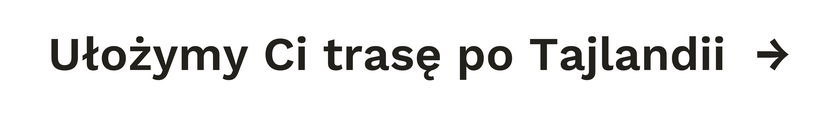
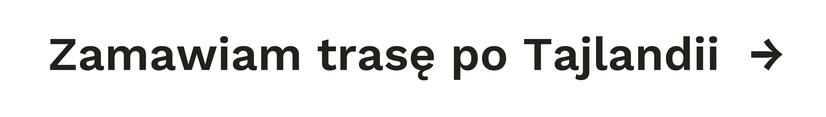
Change CTA copy to "Zamawiam trasę po <kraj>"
Rewords all nine CTA pills (white, yellow hover, mobile) from "Ułożymy Ci trasę
po X" to "Zamawiam trasę po X" — first person, ordering rather than offering.
The shorter label makes each pill slightly narrower, so the overlay geometry is
updated for both layouts.

diff --git a/Baner_Indonezja.html b/Baner_Indonezja.html
@@ -58,9 +58,9 @@
 
 /* ——— desktop ——— */
 .esk-bn__cta--d {
-  left: 61.2176%;
+  left: 61.3303%;
   top: 84.3292%;
-  width: 35.6257%;
+  width: 35.5130%;
 }
 .esk-bn__cta--m { display: none; }
 
@@ -78,9 +78,9 @@
   .esk-bn__cta--d { display: none; }
   .esk-bn__cta--m {
     display: block;
-    left: 10.8333%;
+    left: 11.2037%;
     top: 88.6647%;
-    width: 78.2407%;
+    width: 77.5926%;
     filter: drop-shadow(0 5px 12px rgba(0, 0, 0, 0.26));
     transition: transform 0.14s ease;
   }

diff --git a/Baner_Tajlandia.html b/Baner_Tajlandia.html
@@ -58,9 +58,9 @@
 
 /* ——— desktop ——— */
 .esk-bn__cta--d {
-  left: 61.6122%;
+  left: 61.7249%;
   top: 84.3292%;
-  width: 35.2311%;
+  width: 35.1184%;
 }
 .esk-bn__cta--m { display: none; }
 
@@ -78,9 +78,9 @@
   .esk-bn__cta--d { display: none; }
   .esk-bn__cta--m {
     display: block;
-    left: 11.3889%;
+    left: 11.7593%;
     top: 88.6647%;
-    width: 77.1296%;
+    width: 76.4815%;
     filter: drop-shadow(0 5px 12px rgba(0, 0, 0, 0.26));
     transition: transform 0.14s ease;
   }

diff --git a/Baner_Wietnam.html b/Baner_Wietnam.html
@@ -58,9 +58,9 @@
 
 /* ——— desktop ——— */
 .esk-bn__cta--d {
-  left: 59.5829%;
+  left: 59.6956%;
   top: 84.3292%;
-  width: 37.2604%;
+  width: 37.1477%;
 }
 .esk-bn__cta--m { display: none; }
 
@@ -78,9 +78,9 @@
   .esk-bn__cta--d { display: none; }
   .esk-bn__cta--m {
     display: block;
-    left: 9.0741%;
+    left: 9.4444%;
     top: 88.6647%;
-    width: 81.7593%;
+    width: 81.1111%;
     filter: drop-shadow(0 5px 12px rgba(0, 0, 0, 0.26));
     transition: transform 0.14s ease;
   }
